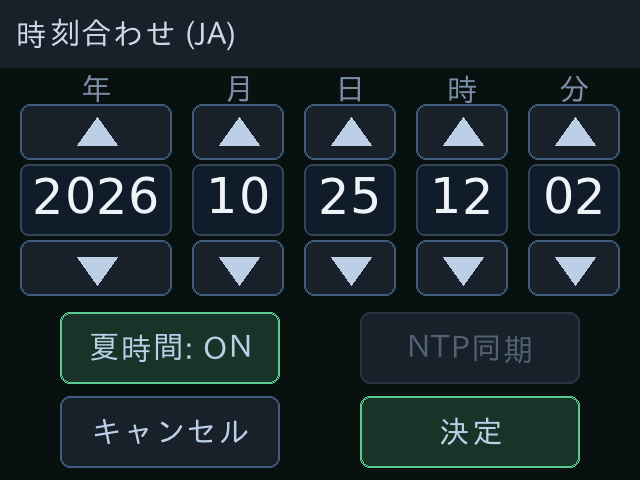
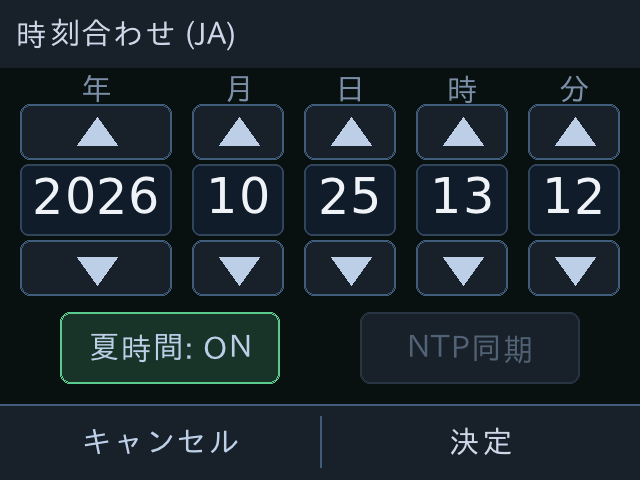
Turn the time-setting page's Cancel/OK into a bottom bar
The green OK button looked the same as the green ON state of the
summer-time toggle above it. Cancel and OK are now the two halves of a
full-width bar along the bottom edge, so they differ from the toggles
by shape; green is left for ON states only.

Changed region(s): [[0.0, 0.8125, 1.0, 1.0], [0.8438, 0.375, 0.9062, 0.4375], [0.7188, 0.375, 0.7812, 0.4375]]

diff --git a/src/timeset.cpp b/src/timeset.cpp
@@ -6,8 +6,11 @@
 //	 2026    08    16    10    55
 //	  ▼     ▼    ▼    ▼    ▼
 //	  [夏時間: ON]     [NTP同期]
-//	  [キャンセル]     [決定]
+//	───────────┬───────────
+//	   キャンセル  │    決定          ← 下端のバー (画面幅いっぱい)
 //
+//	キャンセル / 決定は角の丸いボタンにせず、下端のバーにする。上の
+//	トグル (ON で緑) と形で見分けられるように。
 //	秒は「決定」を押した瞬間に 0 にする。
 //	▲▼ は長押しでリピートする。
 //	夏時間はその場で切り替えて保存し、表示中の値も新しい時差に合わせて動かす。
@@ -41,13 +44,16 @@
 #define VAL_H   36
 #define DN_Y    120
 #define OPT_Y   156
-#define BTN_Y   198
 #define BTN_H   36
 
-// 下 2 段のボタン (夏時間 / NTP同期、キャンセル / 決定) の列
+// 夏時間 / NTP同期 の列
 #define BTN_L_X 30
 #define BTN_R_X 180
 #define BTN_W   110
+
+// 下端のバー (左半分 = キャンセル、右半分 = 決定)
+#define BAR_Y   202
+#define BAR_H   (240 - BAR_Y)
 
 #define FIELD_N 5
 
@@ -192,8 +198,17 @@ static void draw_screen(void)
 	}
 	draw_summer();
 	draw_ntp();
-	draw_button(BTN_L_X, BTN_Y, BTN_W, BTN_H, "キャンセル", C_BTN_BG, C_BTN_BD, C_BTN_TX);
-	draw_button(BTN_R_X, BTN_Y, BTN_W, BTN_H, "決定", C_OK_BG, C_OK_BD, C_BTN_TX);
+
+	lcd->fillRect(0, BAR_Y, 320, BAR_H, C_TITLEBG);
+	lcd->drawFastHLine(0, BAR_Y, 320, C_BTN_BD);
+	lcd->drawFastVLine(160, BAR_Y + 6, BAR_H - 12, C_BTN_BD);
+	lcd->setFont(&fonts::lgfxJapanGothicP_16);
+	lcd->setTextDatum(lgfx::textdatum_t::middle_center);
+	lcd->setTextColor(C_BTN_TX, C_TITLEBG);
+	lcd->drawString("キャンセル", 80, BAR_Y + BAR_H / 2);
+	lcd->setTextColor(C_TITLETX, C_TITLEBG);
+	lcd->drawString("決定", 240, BAR_Y + BAR_H / 2);
+	lcd->setTextDatum(lgfx::textdatum_t::top_left);
 }
 
 //	夏時間の切替。入力途中の値は捨てず、切替前後のローカル時刻の差だけ動かす
@@ -236,13 +251,13 @@ bool timeset_run(LGFX *lcd_)
 		}
 
 		// 決定 / キャンセル
-		if (hit(tx, ty, BTN_R_X, BTN_Y, BTN_W, BTN_H)) {
+		if (hit(tx, ty, 160, BAR_Y, 160, BAR_H)) {
 			while (lcd->getTouch(&tx, &ty)) delay(10);
 			tm.sec = 0;
 			clock_set_zone_time(clock_zone(), clock_make(&tm));
 			return true;
 		}
-		if (hit(tx, ty, BTN_L_X, BTN_Y, BTN_W, BTN_H)) {
+		if (hit(tx, ty, 0, BAR_Y, 160, BAR_H)) {
 			while (lcd->getTouch(&tx, &ty)) delay(10);
 			return false;
 		}
